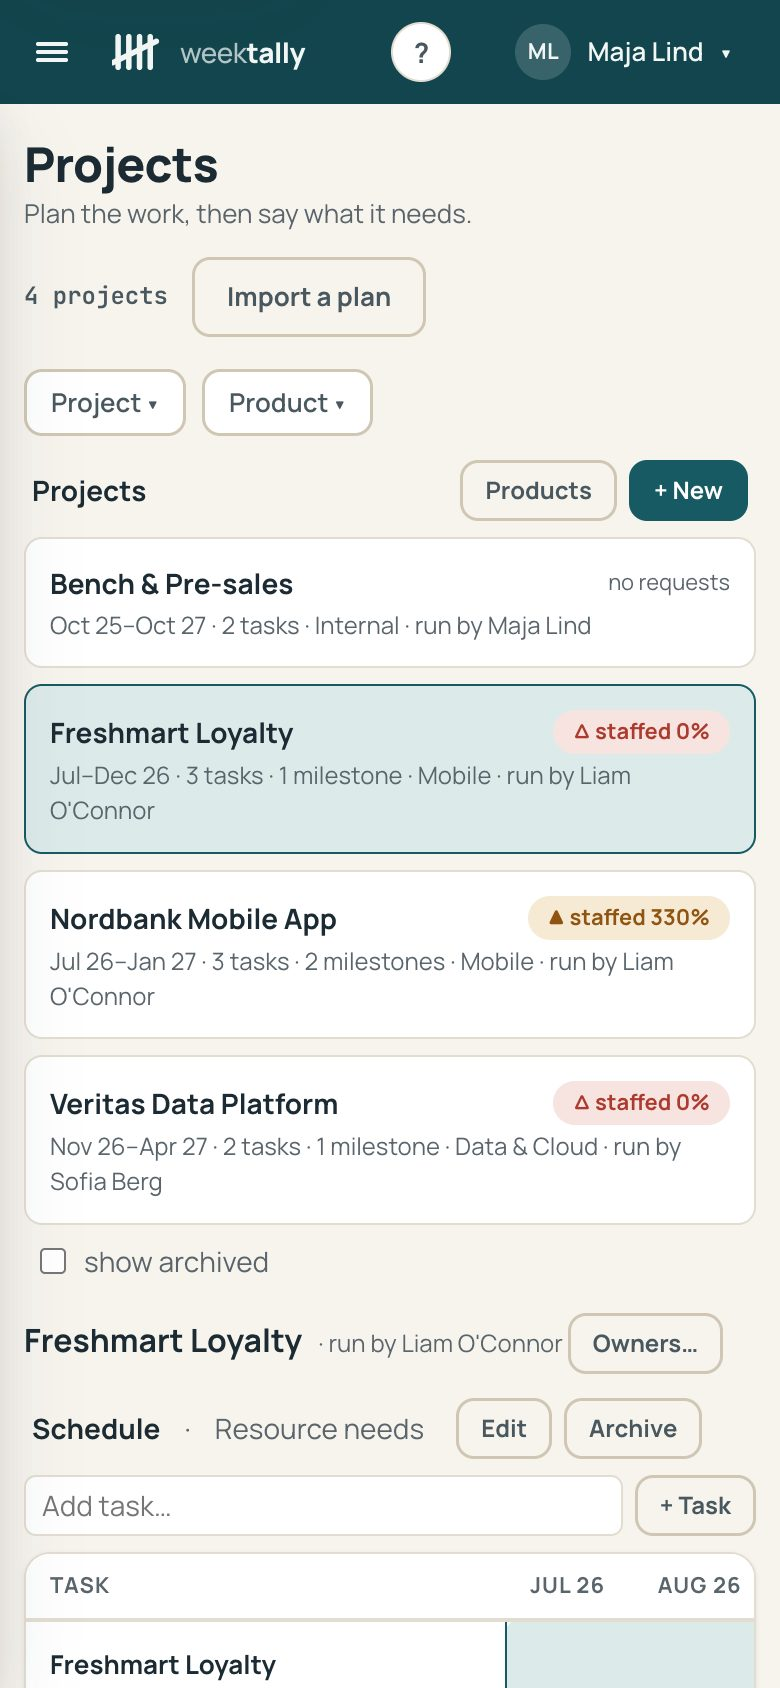
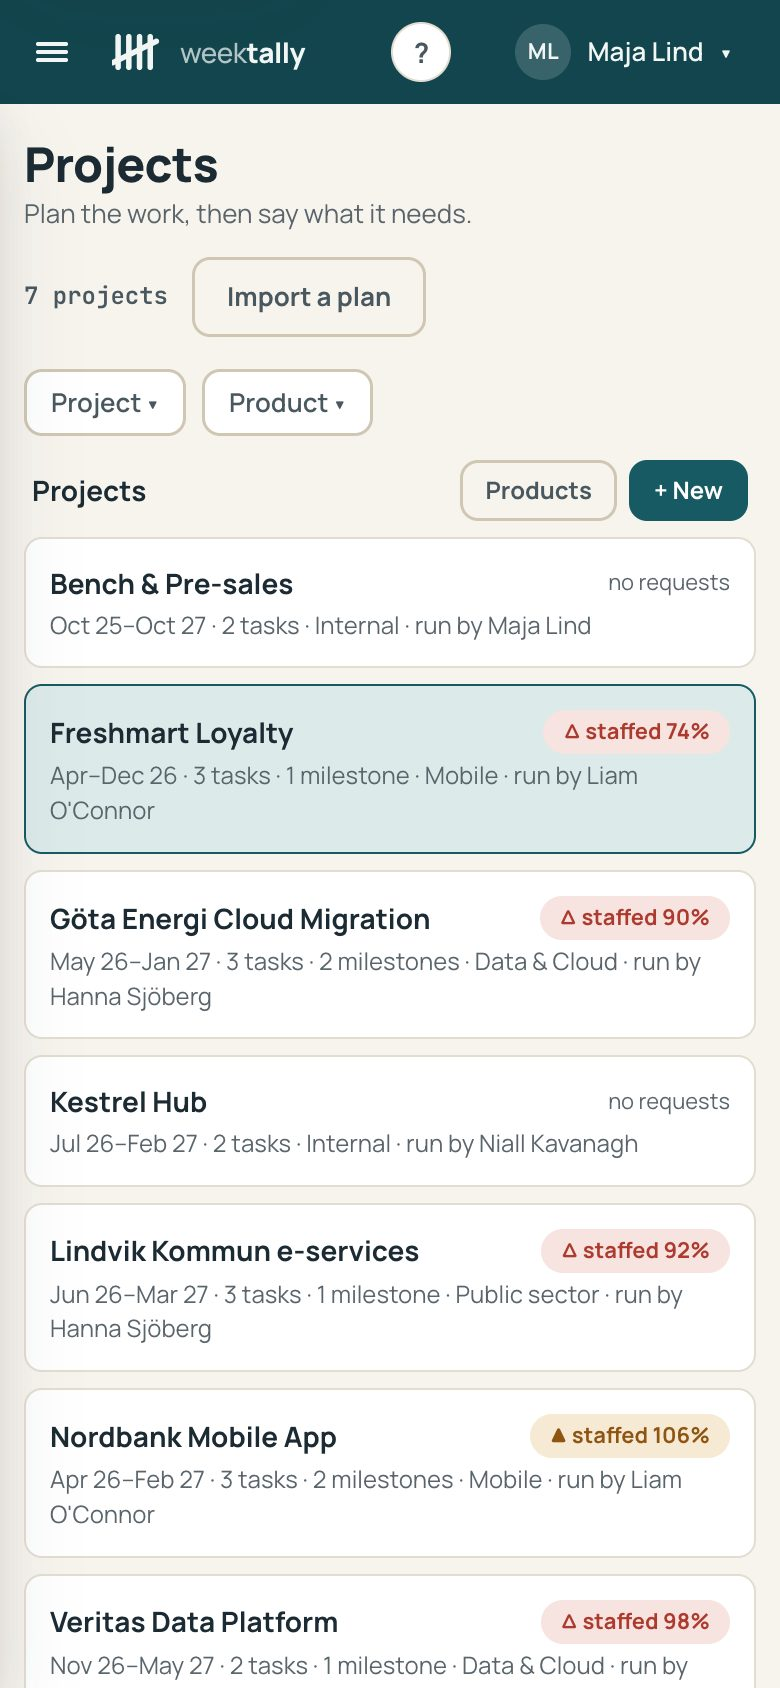
Tour: screenshots and captions for the enriched Kestrel (20 people)

diff --git a/tour.html b/tour.html
@@ -41,8 +41,8 @@
       <div>
         <p class="num">01 / 09</p>
         <h2>Today: only what needs you</h2>
-        <p>Maja runs operations at Kestrel Digital, a fictional IT consultancy in Sweden and Ireland. This is the first thing she sees.</p>
-        <p>Conor is booked at 120% in November, three project needs have nobody assigned, and Raj has two weeks missing. Each card is one click from where it gets fixed. On a quiet day, the page is empty.</p>
+        <p>Maja runs operations at Kestrel Digital, a fictional IT consultancy of 20 people in Stockholm and Dublin. This is the first thing she sees.</p>
+        <p>Three people are booked over 100% in the next three months, eight project needs have nobody on them, four timesheet weeks are missing or short, and two requests are waiting for a line manager’s yes. Each card is one click from where it gets fixed.</p>
       </div>
       <figure class="shot">
         <a href="/assets/tour/today-desktop.jpg" title="Open full size"><picture>
@@ -74,7 +74,7 @@
         <p class="num">03 / 09</p>
         <h2>Projects</h2>
         <p>Each project has its owner, tasks, schedule and milestones; here, Freshmart Loyalty and its rewards launch.</p>
-        <p>On the Resource needs tab a project says what it needs, down to naming the person it wants. That request goes to the person’s line manager to approve.</p>
+        <p>The badge beside each project says how much of what it asked for is staffed. Freshmart has 74%; Nordbank has slightly more than it asked for. A project asks on its Resource needs tab, down to naming the person it wants, and that request goes to the person’s line manager.</p>
       </div>
       <figure class="shot">
         <a href="/assets/tour/project-desktop.jpg" title="Open full size"><picture>
@@ -89,7 +89,7 @@
       <div>
         <p class="num">04 / 09</p>
         <h2>People</h2>
-        <p>The roster: who reports to whom, contracted hours, country and skills.</p>
+        <p>Twenty people in two countries: who reports to whom, contracted hours, country and skills.</p>
         <p>Elin works 32 hours and Raj is a contractor on 20. Each person’s capacity follows their own contract and their own country’s holidays.</p>
       </div>
       <figure class="shot">
@@ -106,7 +106,7 @@
         <p class="num">05 / 09</p>
         <h2>Review: did the plan survive?</h2>
         <p>Planned against actual hours, by project or by person, for any period.</p>
-        <p>Over the last three months Freshmart Loyalty used 12% more hours than planned, while Nordbank came in 10% under.</p>
+        <p>Over the last three months Freshmart Loyalty ran 23% over plan and Göta Energi 26% under. The other four projects came in on plan.</p>
       </div>
       <figure class="shot">
         <a href="/assets/tour/variance-desktop.jpg" title="Open full size"><picture>
@@ -122,7 +122,7 @@
         <p class="num">06 / 09</p>
         <h2>Review: who is behind?</h2>
         <p>Every person’s last eight weeks at a glance.</p>
-        <p>Raj has two weeks missing. Nudge sends him a reminder; nobody has to chase a spreadsheet.</p>
+        <p>Three weeks are missing and one is under 75% of a contract. Nudge sends a reminder; nobody has to chase a spreadsheet.</p>
       </div>
       <figure class="shot">
         <a href="/assets/tour/compliance-desktop.jpg" title="Open full size"><picture>
@@ -153,8 +153,8 @@
       <div>
         <p class="num">08 / 09</p>
         <h2>My week</h2>
-        <p>Conor’s timesheet. The work he is planned on is already there as rows, with his share of each, before he types anything.</p>
-        <p>He fills in the hours, adds anything unplanned, and submits. On a phone it takes about a minute.</p>
+        <p>Conor’s timesheet for last week. The work he was planned on came in as rows, with his share of each, before he typed anything.</p>
+        <p>He logged 46 hours against a 39-hour contract, most of it on Freshmart, which was planned at 60% of his week. On a phone, filling in a week takes about a minute.</p>
       </div>
       <figure class="shot">
         <a href="/assets/tour/week-desktop.jpg" title="Open full size"><picture>
